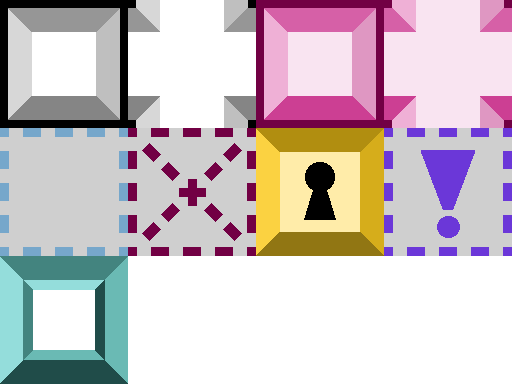
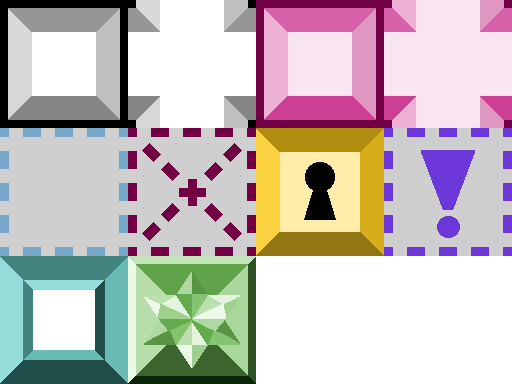
Final stage & bug fixes (plus new bugs)

Changed region(s): [[0.25, 0.6562, 0.5, 1.0]]

diff --git a/src/application/gamefield/Stage.java b/src/application/gamefield/Stage.java
@@ -24,12 +24,12 @@ public class Stage {
 	/** Static solid tiles */
 	static final boolean[] STATIC_SOLID_TILES = new boolean[] {
 		true,false,true,true, false,false,true,false,  false, true, false, false,
-		true, true, false, true,
+		true, true, false, true,  false, false, false, true,
 	};
 	/** Solid tiles */
 	static final boolean[] SOLID_TILES = new boolean[] {
 		true,true,true,true, false,false,true,false, false,true,false,false,
-		true, true, false, true,
+		true, true, false, true,   true, false, false, true,
 	};
 	
 	
@@ -461,6 +461,19 @@ public class Stage {
 			drawBorders(g, x, y, tileSize, tileSize, LOCK_BORDER_WIDTH);
 			
 		break;
+		
+		// Green star container
+		case 20:
+			
+			// Draw container
+			g.setColor();
+			g.drawScaledBitmapRegion(bmpStatic, 128, 256, 128, 128, 
+			dx, dy, tileSize, tileSize, Flip.NONE);
+						
+			// Borders
+			g.setColor(0.05f,0.25f,0.1f);
+			drawBorders(g, x, y, tileSize, tileSize, LOCK_BORDER_WIDTH);
+			break;
 			
 		// Floor
 		default:
@@ -507,7 +520,7 @@ public class Stage {
 			// Check if we want to copy the tile to the tile data array
 			// TODO: Check if in array instead of so many ors
 			if(tile == 1 || tile == 3 || tile == 4 || tile == 6 || tile == 7 ||
-				tile == 9 || tile == 10 || tile == 13 || tile == 14)
+				tile == 9 || tile == 10 || tile == 13 || tile == 14 || tile == 20)
 				tileData[i] = tile;
 			else
 				tileData[i] = 0;

diff --git a/src/application/gamefield/Player.java b/src/application/gamefield/Player.java
@@ -42,6 +42,8 @@ public class Player extends FieldObject {
 	private int keys;
 	/** Hammers */
 	private int hammers;
+	/** Emeralds remaining */
+	private int emeraldRemaining = 0;
 	
 	
 	/**
@@ -198,6 +200,7 @@ public class Player extends FieldObject {
 		
 		// Set values
 		keys = 0;
+		emeraldRemaining = 0;
 	
 	}
 	
@@ -366,5 +369,34 @@ public class Player extends FieldObject {
 		
 		if(hammers > 0)
 			-- hammers;
+	}
+	
+	
+	/**
+	 * Set remaining emeralds counter value
+	 * @param v Amount
+	 */
+	public void setRemainingEmeralds(int v) {
+		
+		emeraldRemaining += v;
+	}
+	
+	
+	/**
+	 * Get the amount of remaining emeralds
+	 * @return The amount
+	 */
+	public int getRemainingEmeralds() {
+		
+		return emeraldRemaining;
+	}
+	
+	
+	/**
+	 * Reduce the remaining emeralds counter
+	 */
+	public void reduceEmeralds() {
+		
+		-- emeraldRemaining;
 	}
 }

diff --git a/src/application/gamefield/ObjectManager.java b/src/application/gamefield/ObjectManager.java
@@ -56,6 +56,8 @@ public class ObjectManager {
 		Point p;
 		int x, y;
 		
+		int emeraldCount = 0;
+		
 		for(int i = 0; i < data.length; ++ i) {
 
 			x = i % w;
@@ -130,6 +132,7 @@ public class ObjectManager {
 				break;
 				
 			// Star
+			case 20:
 			case 18:
 				
 				objects.add(new Star(p));
@@ -139,12 +142,16 @@ public class ObjectManager {
 			case 19:
 				
 				objects.add(new Emerald(p));
+				++ emeraldCount;
 				break;
-	
+
 			default:
 				break;
 			}
 		}
+		
+		// Store emerald count
+		player.setRemainingEmeralds(emeraldCount);
 	}
 	
 	

diff --git a/src/application/gamefield/Crate.java b/src/application/gamefield/Crate.java
@@ -158,7 +158,7 @@ public class Crate extends NonPlayerFieldObject {
 			// deathEvent(stage);
 		}
 		
-		// Special check: if in the same tile as a wall,
+		// Special check: if in the same tile as a purple wall,
 		// then die
 		if(stage.getTile(pos.x, pos.y) == 7 && stage.isTransforming()) {
 			

diff --git a/src/application/gamefield/Emerald.java b/src/application/gamefield/Emerald.java
@@ -19,7 +19,11 @@ public class Emerald extends Collectible {
 	@Override
 	public void onPlayerCollision(Player pl, Stage stage) {
 
-		// ...
+		pl.reduceEmeralds();
+		if(pl.getRemainingEmeralds() <= 0) {
+			
+			stage.updateTileData(stage.getWidth()/2, stage.getHeight()/2, 0);
+		}
 	}
 
 }
